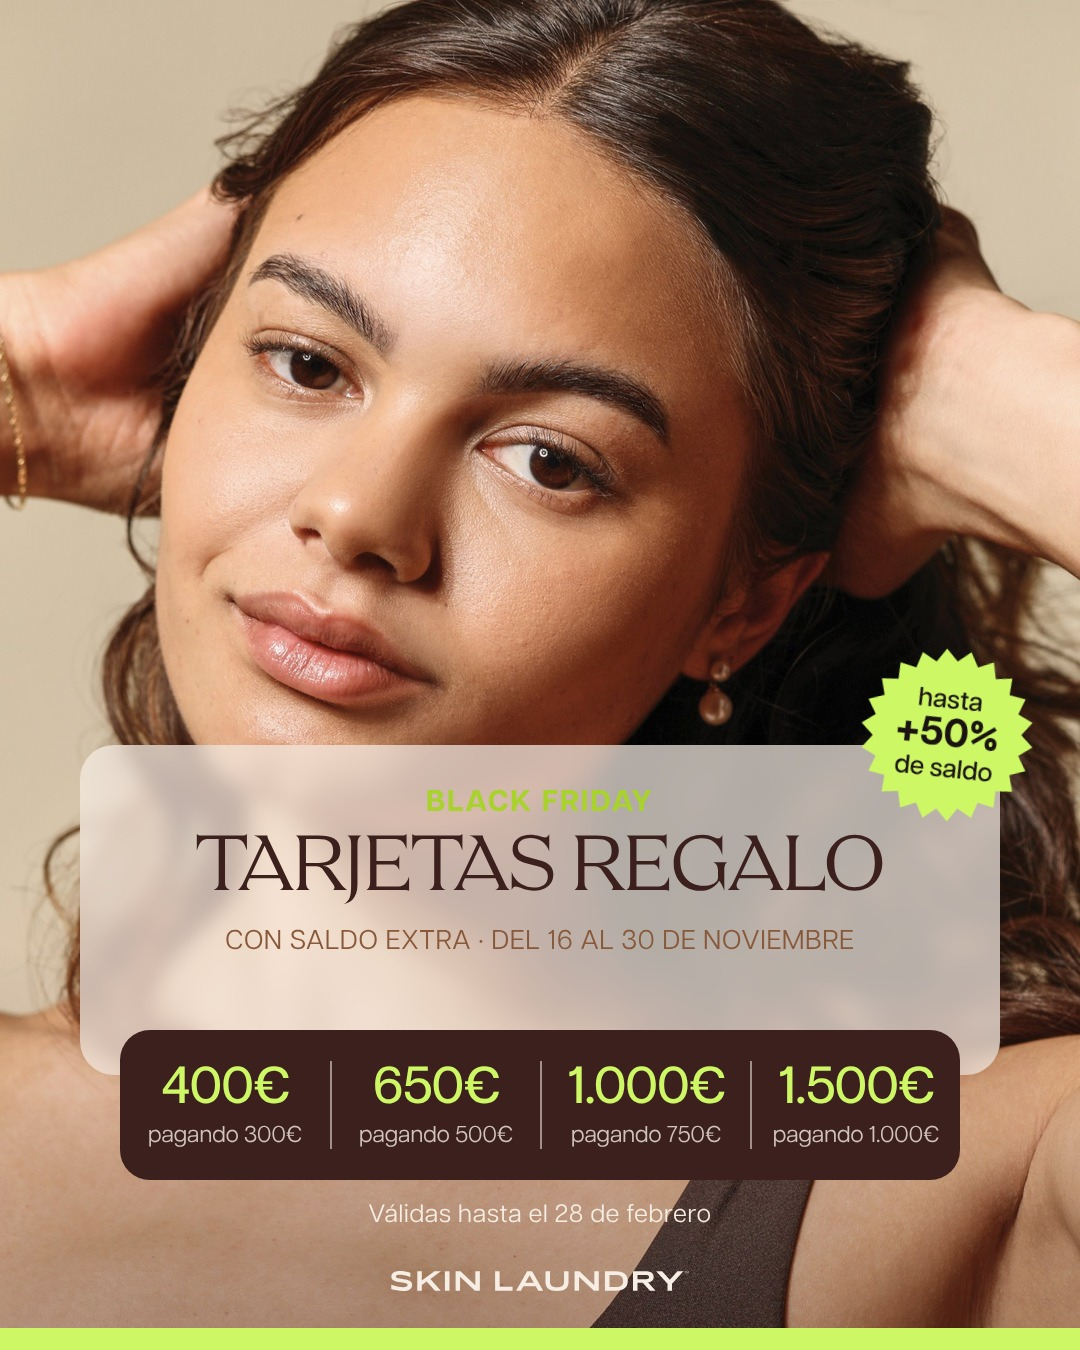
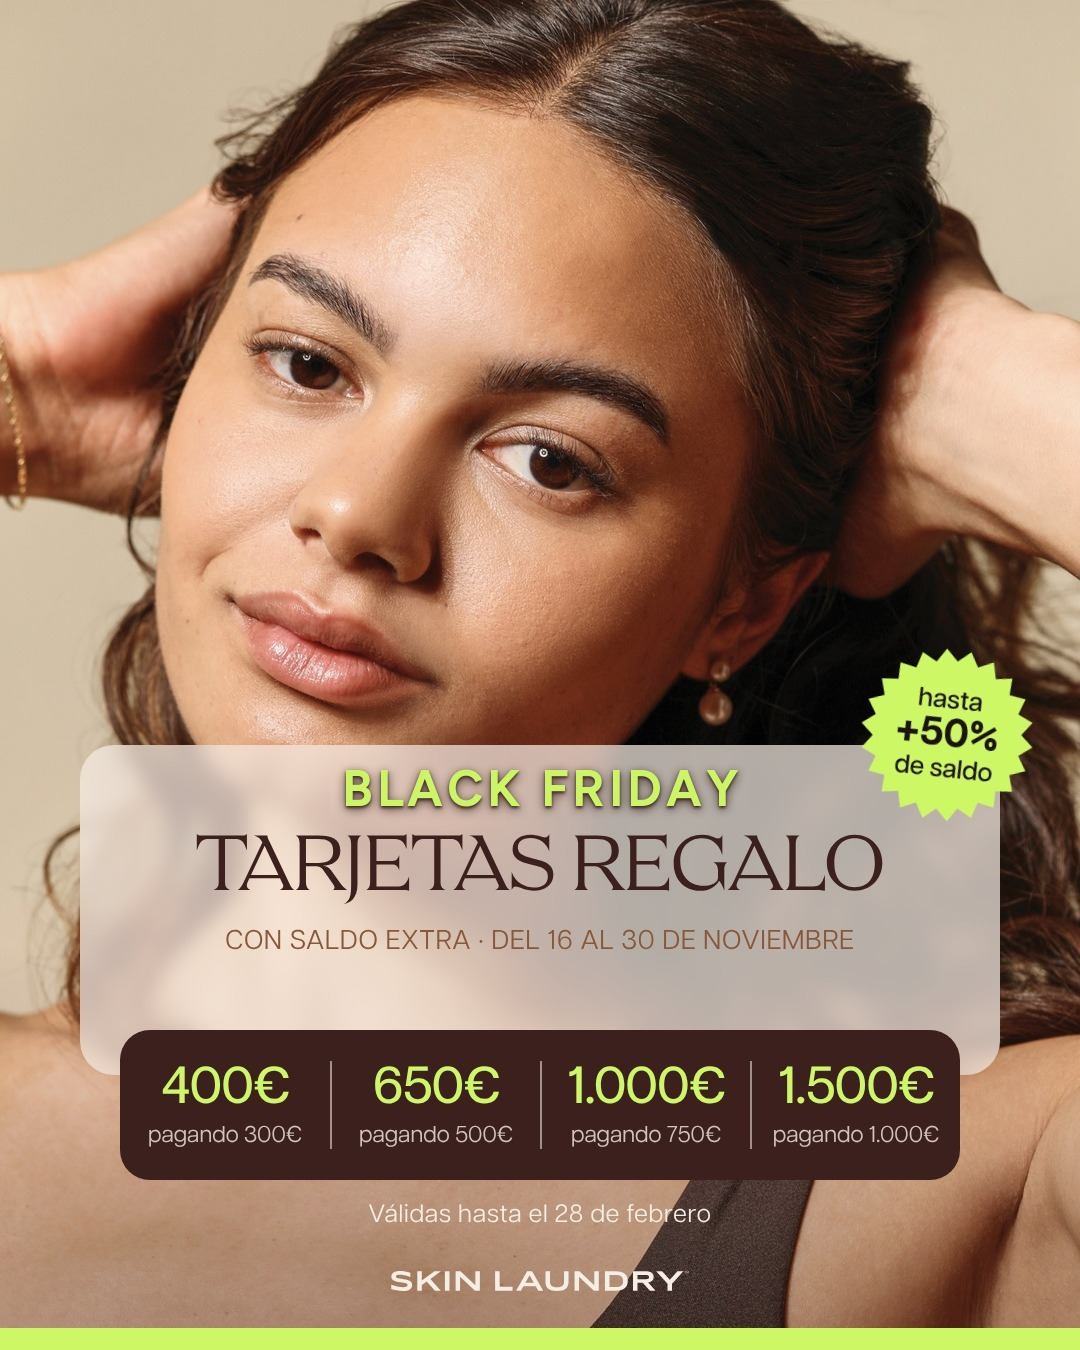
Calendario noviembre: «Black Friday» más grande y con sombra en el post del 18
Claude-Session: https://claude.ai/code/session_01JZ4qrDSs6cEwDqgD6hVPko

Changed region(s): [[0.3056, 0.56, 0.7028, 0.6222]]

diff --git a/public/pitch/skin-laundry-calendario/noviembre/index.html b/public/pitch/skin-laundry-calendario/noviembre/index.html
@@ -733,7 +733,7 @@ Siempre empieza con una consulta previa con nuestros médicos. Puedes pedirla de
   pieza:"Tarjetas regalo con valor extra",
   base:"Excel 2025: Black Friday · actualización de Carlota (30/10): tramos, venta del 16 al 30/11 y validez hasta el 28/02", cta:"Reserva antes de que acabe",
   nota:"Foto de modelo: confirmar que es de Canto o del shooting con derechos",
-  media:"/pitch/skin-laundry-calendario/noviembre/img/d18_bf_B.jpg?v=11120134",
+  media:"/pitch/skin-laundry-calendario/noviembre/img/d18_bf_B.jpg?v=11121330",
   idea:["Estilo promo de la marca: panel crema, píldora chocolate con precios en lima y sello «hasta +50% de saldo»"],
   story:["Story de diseño propio","Enlace a añadir desde Instagram: Reserva antes de que acabe"],
   copy:`Este Black Friday, las tarjetas regalo vienen con saldo extra.
